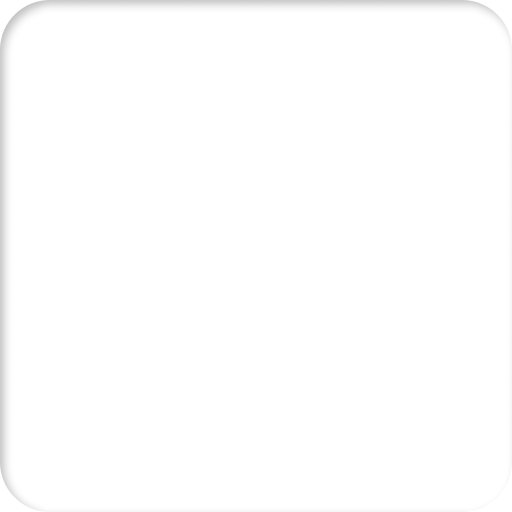
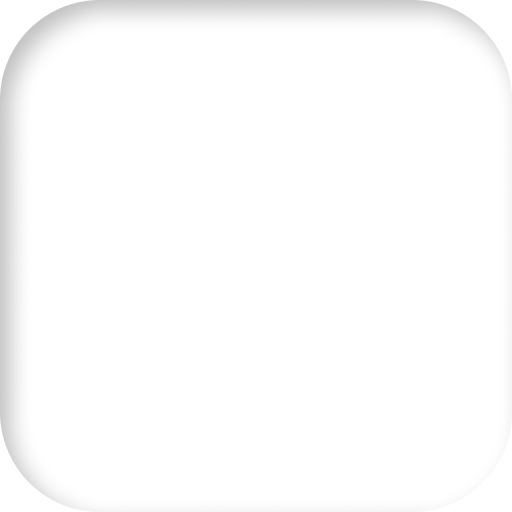
Fix:자잘한 수치 오류 수정
Former-commit-id: 63fc549ca4deba6ee85796be4aab0aafeb58704c

Changed region(s): [[0.0, 0.0, 0.9688, 0.9688], [0.9375, 0.0625, 0.9688, 0.0938], [0.0625, 0.9375, 0.0938, 0.9688]]

diff --git a/frontend/pages/components/StageCard.tsx b/frontend/pages/components/StageCard.tsx
@@ -9,7 +9,7 @@ import { IStage } from "../../types/types";
 
 type RootStackNavigationProp = NativeStackNavigationProp<RootStackParamList>;
 
-const StageCard = (props: { stage: IStage; gameType: string;  isApple: boolean }) => {
+const StageCard = (props: { stage: IStage; gameType: string }) => {
   const isLoaded = useCachedResources();
   const navigation = useNavigation<RootStackNavigationProp>();
   function getImage(name: string): any {
@@ -37,15 +37,16 @@ const StageCard = (props: { stage: IStage; gameType: string;  isApple: boolean }
     }
   }
 
-  const cardStyle = {
-      borderWidth: 7,
-      borderColor: props.isApple ? "red" : "white",
-    };
+  // const cardStyle = {
+  //   borderWidth: 7,
+  //   borderColor: props.isApple ? "red" : "white",
+  // };
 
   if (isLoaded) {
     //gameType에 따라 스테이지로 연결
     return (
-      <CardContainer style={cardStyle} // cardStyle을 스타일로 적용
+      <CardContainer
+        // style={cardStyle} // cardStyle을 스타일로 적용
         onPress={() => {
           if (props.gameType === "picture") {
             return navigation.navigate("PictureGame1", { word: props.stage.word });
@@ -84,6 +85,7 @@ const CardContainer = styled(BtnContainer)`
   border-radius: 20px;
   elevation: 5;
   shadow-radius: 20px;
+  border: 7px solid white;
 `;
 
 // 스테이지 별

diff --git a/frontend/pages/home/Main.tsx b/frontend/pages/home/Main.tsx
@@ -46,7 +46,7 @@ const Main = ({ route }: any) => {
                 source={require("../../assets/button/home/HomeWordDivideMatch.png")}
                 resizeMode="contain"
               />
-              <BtnText>단어 나누기1</BtnText>
+              <BtnText>단어 나누기</BtnText>
             </MenuBtn>
           </BtnContainer>
           <TestContainer>
@@ -59,9 +59,16 @@ const Main = ({ route }: any) => {
             <TouchableOpacity onPress={() => navigation.navigate("Login")}>
               <Text>로그인</Text>
             </TouchableOpacity>
-            <TouchableOpacity onPress={() => navigation.navigate("WordGame3", { word : {
-              name  : "바나나",imgSrc : "",
-              }})} >
+            <TouchableOpacity
+              onPress={() =>
+                navigation.navigate("WordGame3", {
+                  word: {
+                    name: "바나나",
+                    imgSrc: "",
+                  },
+                })
+              }
+            >
               <Text> 워드게임 3 </Text>
             </TouchableOpacity>
           </TestContainer>

diff --git a/frontend/pages/wordGame/WordGame2.tsx b/frontend/pages/wordGame/WordGame2.tsx
@@ -232,7 +232,7 @@ const DraggableContainer = styled.View`
 
 //좌측 droppable 영역
 const DroppableContainer = styled.View`
-  flex: 2;
+  flex: 2.5;
   justify-content: center;
   align-items: center;
   padding-right: 30px;
